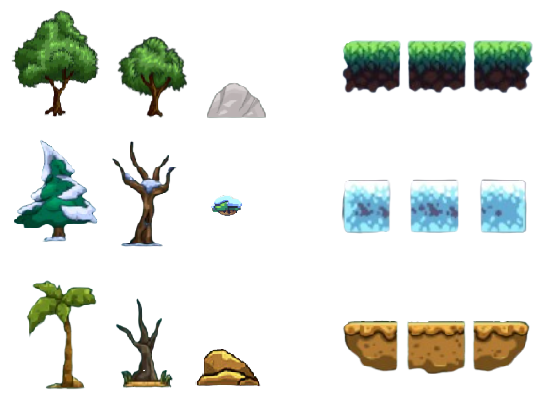
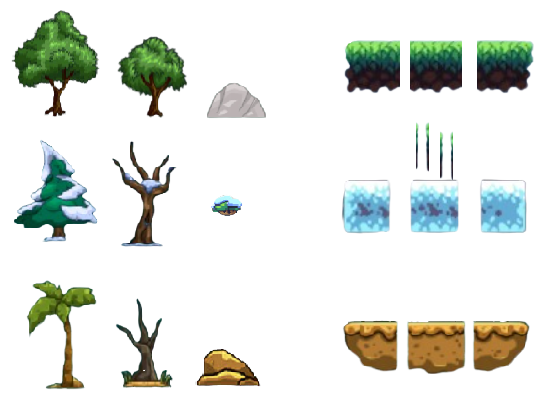
fixing static object

Changed region(s): [[0.6182, 0.0882, 0.9891, 0.2353], [0.7418, 0.2941, 0.8345, 0.4412]]

diff --git a/oop2_proj/src/DataBase.cpp b/oop2_proj/src/DataBase.cpp
@@ -30,7 +30,7 @@ void DataBase::setLevelSize(int x, int y)
 void DataBase::setData(char c, int i, int j)
 {
 	sf::Vector2f pos(i, j);
-	std::cout <<c <<" " <<pos.x << " " << pos.y << "\n";
+	//std::cout <<c <<" " <<pos.x << " " << pos.y << "\n";
 		if(!createStaticObj(c, pos))
 		createMovingObj(c, pos);
 }
@@ -42,7 +42,7 @@ void DataBase::createMovingObj(const char c, const sf::Vector2f& pos)
 	switch (c)
 	{
 	case PLAYER_C:
-		m_player = std::make_unique<Player>(pos);
+		m_player = std::make_unique<Player>(pos+sf::Vector2f(0,20));
 		break;
 	//case FAIRY_C:
 	//	//cout << "add fairies" << i << " " << j << " \n";
@@ -70,22 +70,28 @@ bool DataBase::createStaticObj(const char c, const sf::Vector2f &pos)
 		return true;
 		break;
 	case  START_FLOOR_C:
-		m_staticsObj.push_back(std::make_unique<StageDec>(pos, levels(m_currLevel), L_FLOOR));
+		m_staticsObj.push_back(std::make_unique<StageDec>(pos, levels(m_currLevel), 
+			L_FLOOR,sf::Vector2f(BLOCK_SIZE, BLOCK_SIZE/1.5)));
 		break;
 	case  FLOOR_C:
-		m_staticsObj.push_back(std::make_unique<StageDec>(pos, levels(m_currLevel), M_FLOOR));
+		m_staticsObj.push_back(std::make_unique<StageDec>(pos, levels(m_currLevel), M_FLOOR,
+			sf::Vector2f(BLOCK_SIZE, BLOCK_SIZE / 1.5)));
 		break;
 	case  END_FLOOR_C:
-		m_staticsObj.push_back(std::make_unique<StageDec>(pos, levels(m_currLevel), R_FLOOR));
+		m_staticsObj.push_back(std::make_unique<StageDec>(pos, levels(m_currLevel), R_FLOOR
+			,sf::Vector2f(BLOCK_SIZE, BLOCK_SIZE / 1.5)));
 		break;
 	case  F_TREE_C:
-		m_staticsObj.push_back(std::make_unique<StageDec>(pos, levels(m_currLevel), F_TREE));
+		m_staticsObj.push_back(std::make_unique<StageDec>(pos, levels(m_currLevel), F_TREE,
+			sf::Vector2f(BLOCK_SIZE*1.5, BLOCK_SIZE * 1.5)));
 		break;
 	case  S_TREE_C:
-		m_staticsObj.push_back(std::make_unique<StageDec>(pos, levels(m_currLevel), S_TREE));
+		m_staticsObj.push_back(std::make_unique<StageDec>(pos, levels(m_currLevel), S_TREE,
+			sf::Vector2f(BLOCK_SIZE, BLOCK_SIZE * 1.5)));
 		break;
 	case  ROCK_C:
-		m_staticsObj.push_back(std::make_unique<StageDec>(pos, levels(m_currLevel), ROCK));
+		m_staticsObj.push_back(std::make_unique<StageDec>(pos, levels(m_currLevel), ROCK,
+			sf::Vector2f(BLOCK_SIZE, BLOCK_SIZE)));
 		break;
 		
 	default:

diff --git a/oop2_proj/src/Controller.cpp b/oop2_proj/src/Controller.cpp
@@ -18,9 +18,9 @@ Controller::Controller()
 
 	m_backGroundMusic.setBuffer(*FileManager::p2FileManager().getSound(S_BACKROUND));
 
-	//m_currLevelBackground = sf::RectangleShape(sf::Vector2f({ CAMERA_WIDTH,CAMERA_HEIGHT }));
-	//m_currLevelBackground.setOrigin(m_currLevelBackground.getSize() / 2.f);
-	m_currLevelBackground.setSize({ WINDOW_WIDTH, WINDOW_HEIGHT});
+	m_currLevelBackground = sf::RectangleShape(sf::Vector2f({ CAMERA_WIDTH,CAMERA_HEIGHT }));
+	m_currLevelBackground.setOrigin(m_currLevelBackground.getSize() / 2.f);
+	//m_currLevelBackground.setSize({ WINDOW_WIDTH, WINDOW_HEIGHT});
 	m_currLevelBackground.setTexture(FileManager::p2FileManager().getBackGround(LEVEL1_BACKGROUND));
 }
 
@@ -36,7 +36,7 @@ void Controller::run() try
 		m_dataBase.draw(m_window);
 		m_statusBar.draw(m_window,m_dataBase.getPlayerPower(),
 			m_dataBase.getPlayerLife(), m_dataBase.getPlayerDiamonds());
-		//setView();
+		setView();
 		m_window.display();
 
 		for (auto event = sf::Event(); m_window.pollEvent(event); )

diff --git a/oop2_proj/include/macros.h b/oop2_proj/include/macros.h
@@ -144,9 +144,9 @@ enum Operation
 };
 
 const sf::IntRect
-LEFT_FLOOR_L1(341, 39, 55, 60),
+LEFT_FLOOR_L1(338, 39, 55, 60),
 MIDDLE_FLOOR_L1(405, 39, 55, 60),
-RIGHT_FLOOR_L1(471, 39, 55, 60),
+RIGHT_FLOOR_L1(471, 39, 62, 60),
 LEFT_FLOOR_L2(340, 178, 55, 50),
 MIDDLE_FLOOR_L2(409, 178, 55, 50),
 RIGHT_FLOOR_L2(477, 180, 55, 50),
@@ -155,7 +155,7 @@ MIDDLE_FLOOR_L3(403, 322, 50, 64),
 RIGHT_FLOOR_L3(470, 320, 50, 50),
 FIRST_TREE_L1(10, 11, 108, 88),
 SECOUND_TREE_L1(116, 38, 77, 71),
-ROCK_L1(204, 81, 40, 66),
+ROCK_L1(200, 81, 40, 70),//problem somehow!
 FIRST_TREE_L2(10, 140, 106, 85),
 SECOUND_TREE_L2(107, 142, 107, 67),
 ROCK_L2(210, 196, 22, 30),

diff --git a/oop2_proj/src/StaticSrc/StageDec.cpp b/oop2_proj/src/StaticSrc/StageDec.cpp
@@ -1,8 +1,8 @@
 #include "StaticInclude\StageDec.h"
 
 
-StageDec::StageDec(sf::Vector2f pos, levels level_num, decoration dec)
-	: StaticObj(sf::Vector2f(BLOCK_SIZE * 2, BLOCK_SIZE * 2), pos)
+StageDec::StageDec(sf::Vector2f pos, levels level_num, decoration dec, sf::Vector2f size)
+	: StaticObj(size, pos)
 {
 	auto m_pTexture = FileManager::p2FileManager().getDec();
 	m_shape.setTexture(m_pTexture);

diff --git a/oop2_proj/src/Board.cpp b/oop2_proj/src/Board.cpp
@@ -53,12 +53,10 @@ void Board::readLevel(DataBase& dataBase)
 		{
 			for (size_t j = 0; j < m_boardSize.y; j++)
 			{
-				space_y += 40;
+				space_y += 17;
 				c = char((m_input).get());
 				if (c == EMPTY_C)
 					continue;
-
-				//std::cout <<i << " " << j << "\n";
 				dataBase.setData(c,j+ space_y, i + space_x);
 			}
 			(m_input).get();

diff --git a/oop2_proj/include/StaticInclude/StageDec.h b/oop2_proj/include/StaticInclude/StageDec.h
@@ -10,7 +10,7 @@ class StageDec :public StaticObj
 {
 public:
 	//using StaticObj::StaticObj;
-	StageDec(sf::Vector2f , levels, decoration);
+	StageDec(sf::Vector2f , levels, decoration,sf::Vector2f);
 
 	//void update(const sf::Time& delta) override { m_animation.update(delta); };
 	virtual void startSound() {};
